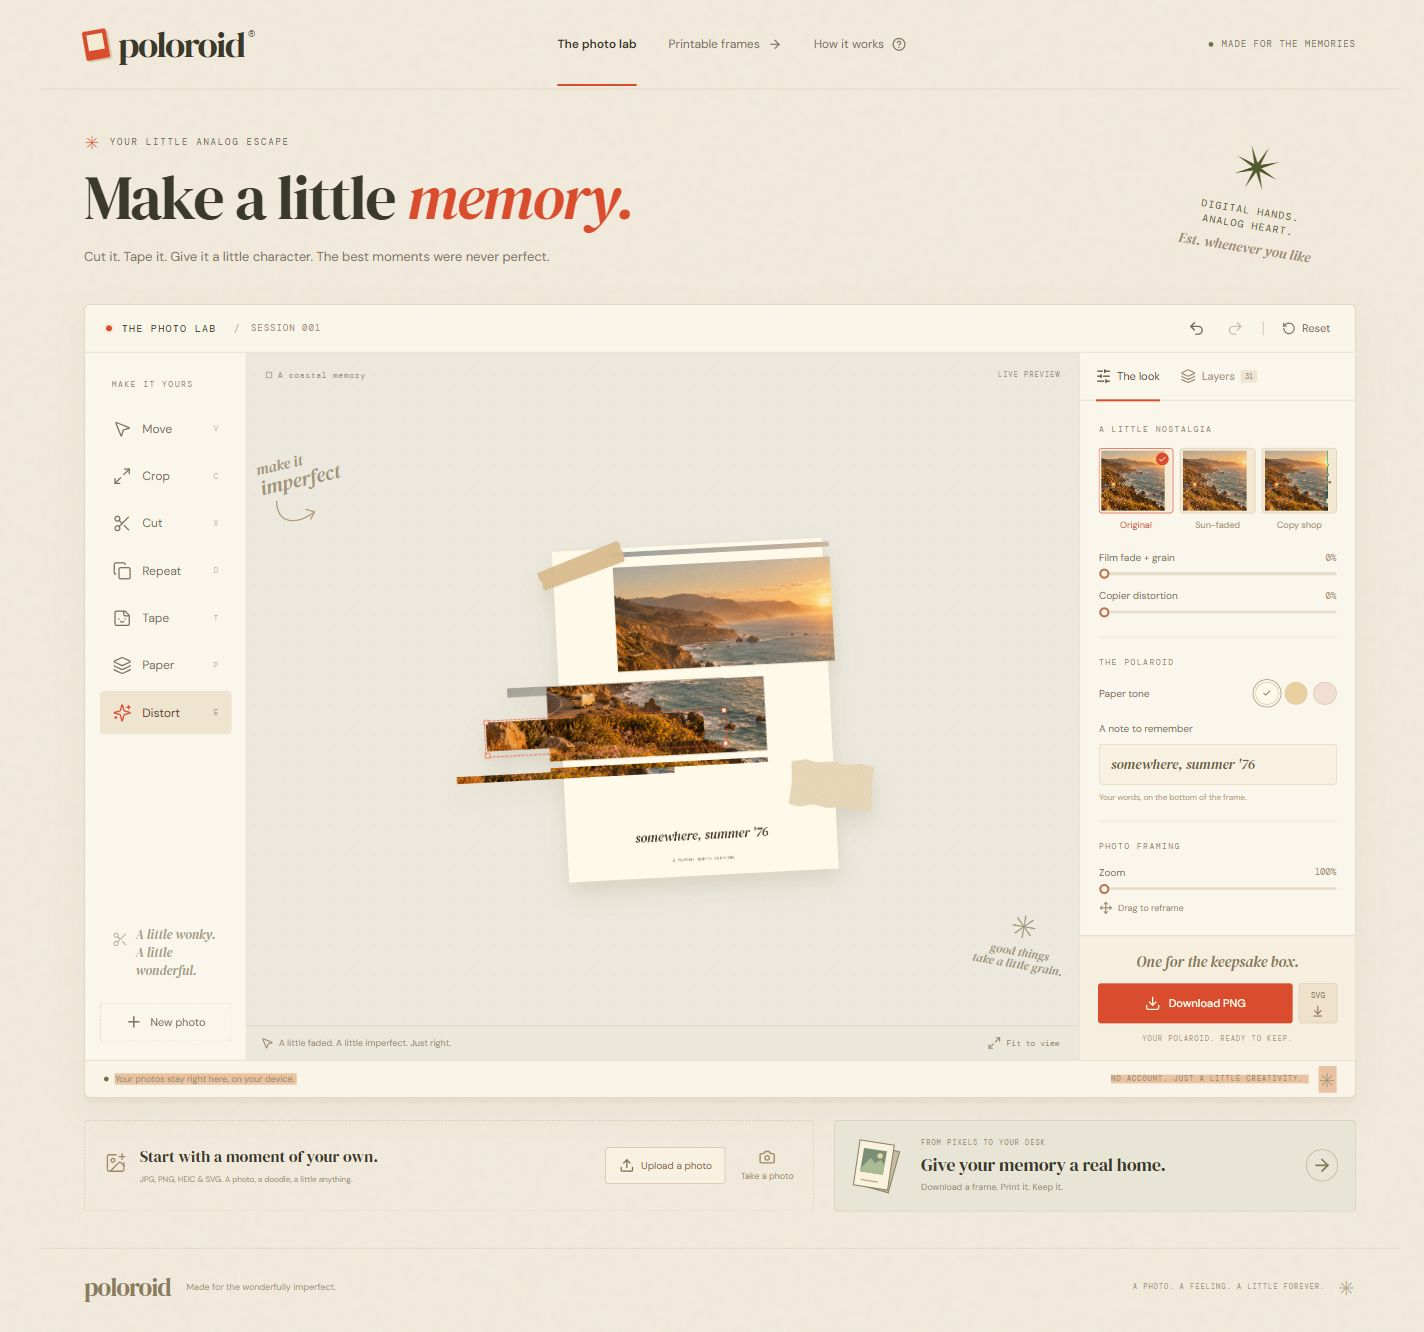
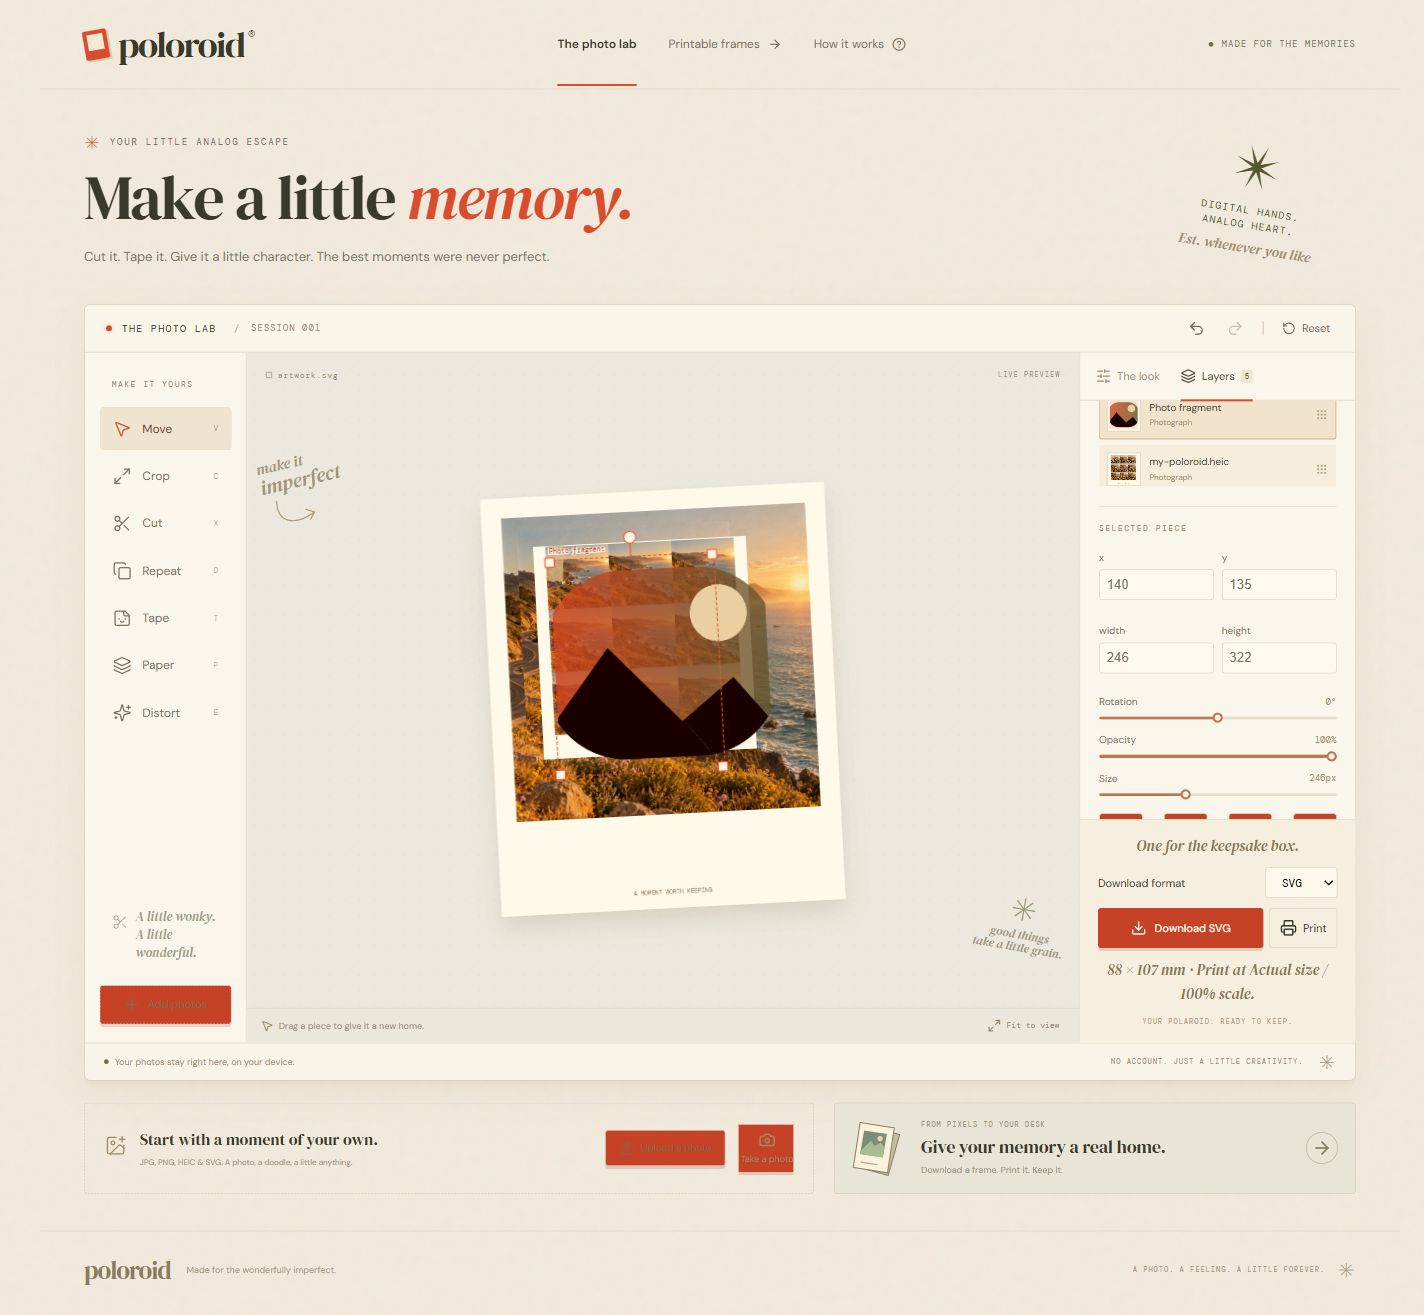
Polish responsive editing controls and record browser export checks

diff --git a/src/styles.css b/src/styles.css
@@ -1064,17 +1064,6 @@ input[type="range"]::-moz-range-thumb {
   line-height: 1.8;
   color: #9a8769;
 }
-.cut-controls {
-  border: 1px dashed #d0b590;
-  padding: 14px;
-  border-radius: 4px;
-  background: #f5ead6;
-  margin-bottom: 20px;
-}
-.cut-controls .panel-eyebrow {
-  font-size: 7px;
-  margin-bottom: 12px;
-}
 .segmented {
   display: flex;
   border: 1px solid #d9c6a4;
@@ -1090,16 +1079,6 @@ input[type="range"]::-moz-range-thumb {
 .segmented button.active {
   background: #d9b78d;
   color: #674831;
-}
-.cut-controls p:not(.panel-eyebrow) {
-  font-size: 9px;
-  line-height: 1.7;
-  color: #9c8260;
-  margin: 10px 0;
-}
-.cut-controls .secondary-button {
-  width: 100%;
-  font-size: 9px;
 }
 .text-button {
   display: flex;
@@ -1861,10 +1840,6 @@ input[type="range"]::-moz-range-thumb {
   .nudge-actions span {
     margin-right: 6px;
   }
-  .cut-controls {
-    grid-column: 1/-1;
-    margin-top: 15px;
-  }
   .selection-hint {
     grid-column: 1/-1;
     padding-bottom: 18px;
@@ -1970,6 +1945,12 @@ input[type="range"]::-moz-range-thumb {
 .camera-button,
 .icon-button,
 .layer-actions button,
+.print-button {
+  transition:
+    background-color 0.15s,
+    box-shadow 0.15s,
+    transform 0.15s;
+}
 .primary-button:hover:not(:disabled) {
   background: #c64227;
   box-shadow: 0 3px 0 #95362030;
@@ -1977,6 +1958,9 @@ input[type="range"]::-moz-range-thumb {
 .primary-button:active:not(:disabled),
 .secondary-button:active:not(:disabled),
 .upload-side:active:not(:disabled),
+.print-button:active:not(:disabled) {
+  transform: translateY(2px);
+}
 .layer-row {
   transition:
     background 0.15s,
@@ -2019,7 +2003,7 @@ input[type="range"]::-moz-range-thumb {
   .primary-button:active:not(:disabled),
   .secondary-button:active:not(:disabled),
   .upload-side:active:not(:disabled),
-  .svg-download:active:not(:disabled) {
+  .print-button:active:not(:disabled) {
     transform: none;
   }
 }
@@ -2168,4 +2152,14 @@ input[type="range"]::-moz-range-thumb {
 
 .settings-content.panel-layers {
   display: block;
+}
+@media screen and (max-width: 700px) {
+  .settings-content.panel-layers .selected-controls {
+    display: block;
+  }
+  .selected-controls > .layer-actions,
+  .selected-controls > .nudge-actions {
+    justify-content: flex-start;
+    flex-wrap: wrap;
+  }
 }

diff --git a/src/App.tsx b/src/App.tsx
@@ -1113,7 +1113,9 @@ export default function App() {
                           </div>
                         ) : (
                           <p className="selection-hint">
-                            Select a piece to move, rotate, or rearrange it.
+                            {grid && tool === "repeat"
+                              ? "Grid selected. Switch to Move to edit separate tiles."
+                              : "Select a piece to move, rotate, or rearrange it."}
                           </p>
                         )}
                       </>
@@ -1168,15 +1170,19 @@ export default function App() {
                                     [
                                       [
                                         layer.width / 2 -
-                                          Math.cos(a) * layer.width,
+                                          Math.cos(a) *
+                                            Math.max(layer.width, layer.height),
                                         layer.height / 2 -
-                                          Math.sin(a) * layer.height,
+                                          Math.sin(a) *
+                                            Math.max(layer.width, layer.height),
                                       ],
                                       [
                                         layer.width / 2 +
-                                          Math.cos(a) * layer.width,
+                                          Math.cos(a) *
+                                            Math.max(layer.width, layer.height),
                                         layer.height / 2 +
-                                          Math.sin(a) * layer.height,
+                                          Math.sin(a) *
+                                            Math.max(layer.width, layer.height),
                                       ],
                                     ],
                                     "straight",

diff --git a/docs/VALIDATION.md b/docs/VALIDATION.md
@@ -36,11 +36,13 @@ All supplied STL files match their originals byte-for-byte:
 
 ## Hosted interface verification
 
-The deployed owner-private site was inspected at its default mobile-width layout and a 1440-pixel desktop viewport. Tape insertion, duplication, undo, cutting controls, and panel switching were exercised through the browser. The current collage was preserved; the temporary viewport override was reset. The desktop verification view is saved in `studio-desktop.png`.
+The current private deployment was exercised at its normal browser size and at 1440-pixel desktop / 390-pixel mobile widths. The viewport override was reset afterward. The browser imported PNG, JPEG, a genuine exported HEIC, and transparent gradient/clipped SVG artwork together, retaining four photo layers. An angled pointer-drawn cut created independent fragments. A 3×3 repeat, grid resize and Undo, and tape rotation via its circular handle were verified.
 
-The browser check exposed a pre-existing selection issue when a photo was cut underneath tape. Both cutting entry points now share one handler and select a newly created photo fragment. A regression test covers repeated cuts with tape above the image.
+Real PNG/JPEG/SVG downloads from the same cut collage all measured 1560 × 1899 pixels. Reopening the SVG offline with resvg differed from PNG by a mean 0.15 channel levels out of 255. The SVG contained no remote image links. The HEIC download had an `ftypheic` brand (497,723 bytes) and was successfully uploaded back into the editor.
 
-The current automated suite has 48 passing tests. Production and Docker builds pass. Vitest was upgraded to 4.1.11 to resolve the concrete test-tooling advisories reported by GitHub; the dependency audit reports zero vulnerabilities.
+Visual review caught secondary-button color and mobile action-row overflow regressions; both were corrected before final publication. Desktop/mobile verification images are saved alongside this document. Print preparation is covered by the DOM/geometry tests; no physical print was sent.
+
+The suite has 48 passing tests. TypeScript, production and Docker builds pass. The dependency audit reports zero vulnerabilities. The initial JS chunk is about 512 kB before gzip; both HEIC codec bundles remain lazy-loaded.
 
 ## Verification limits
 
